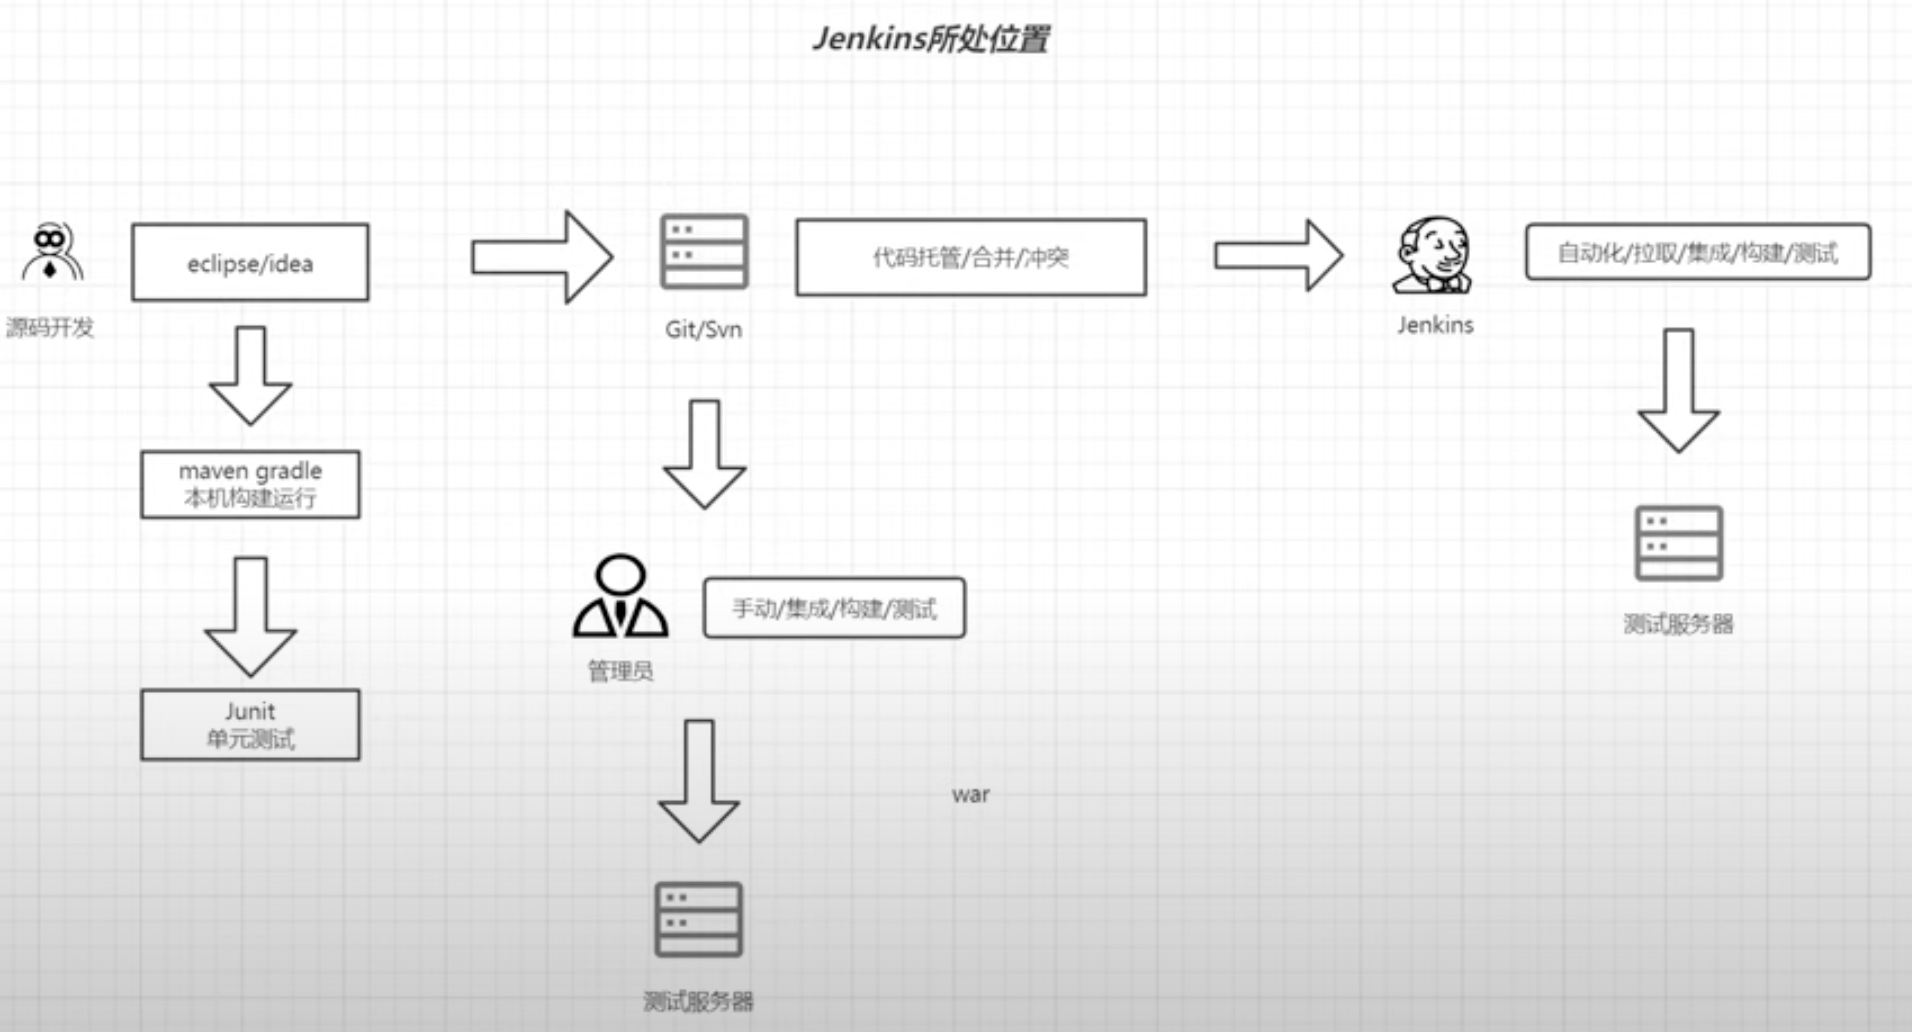
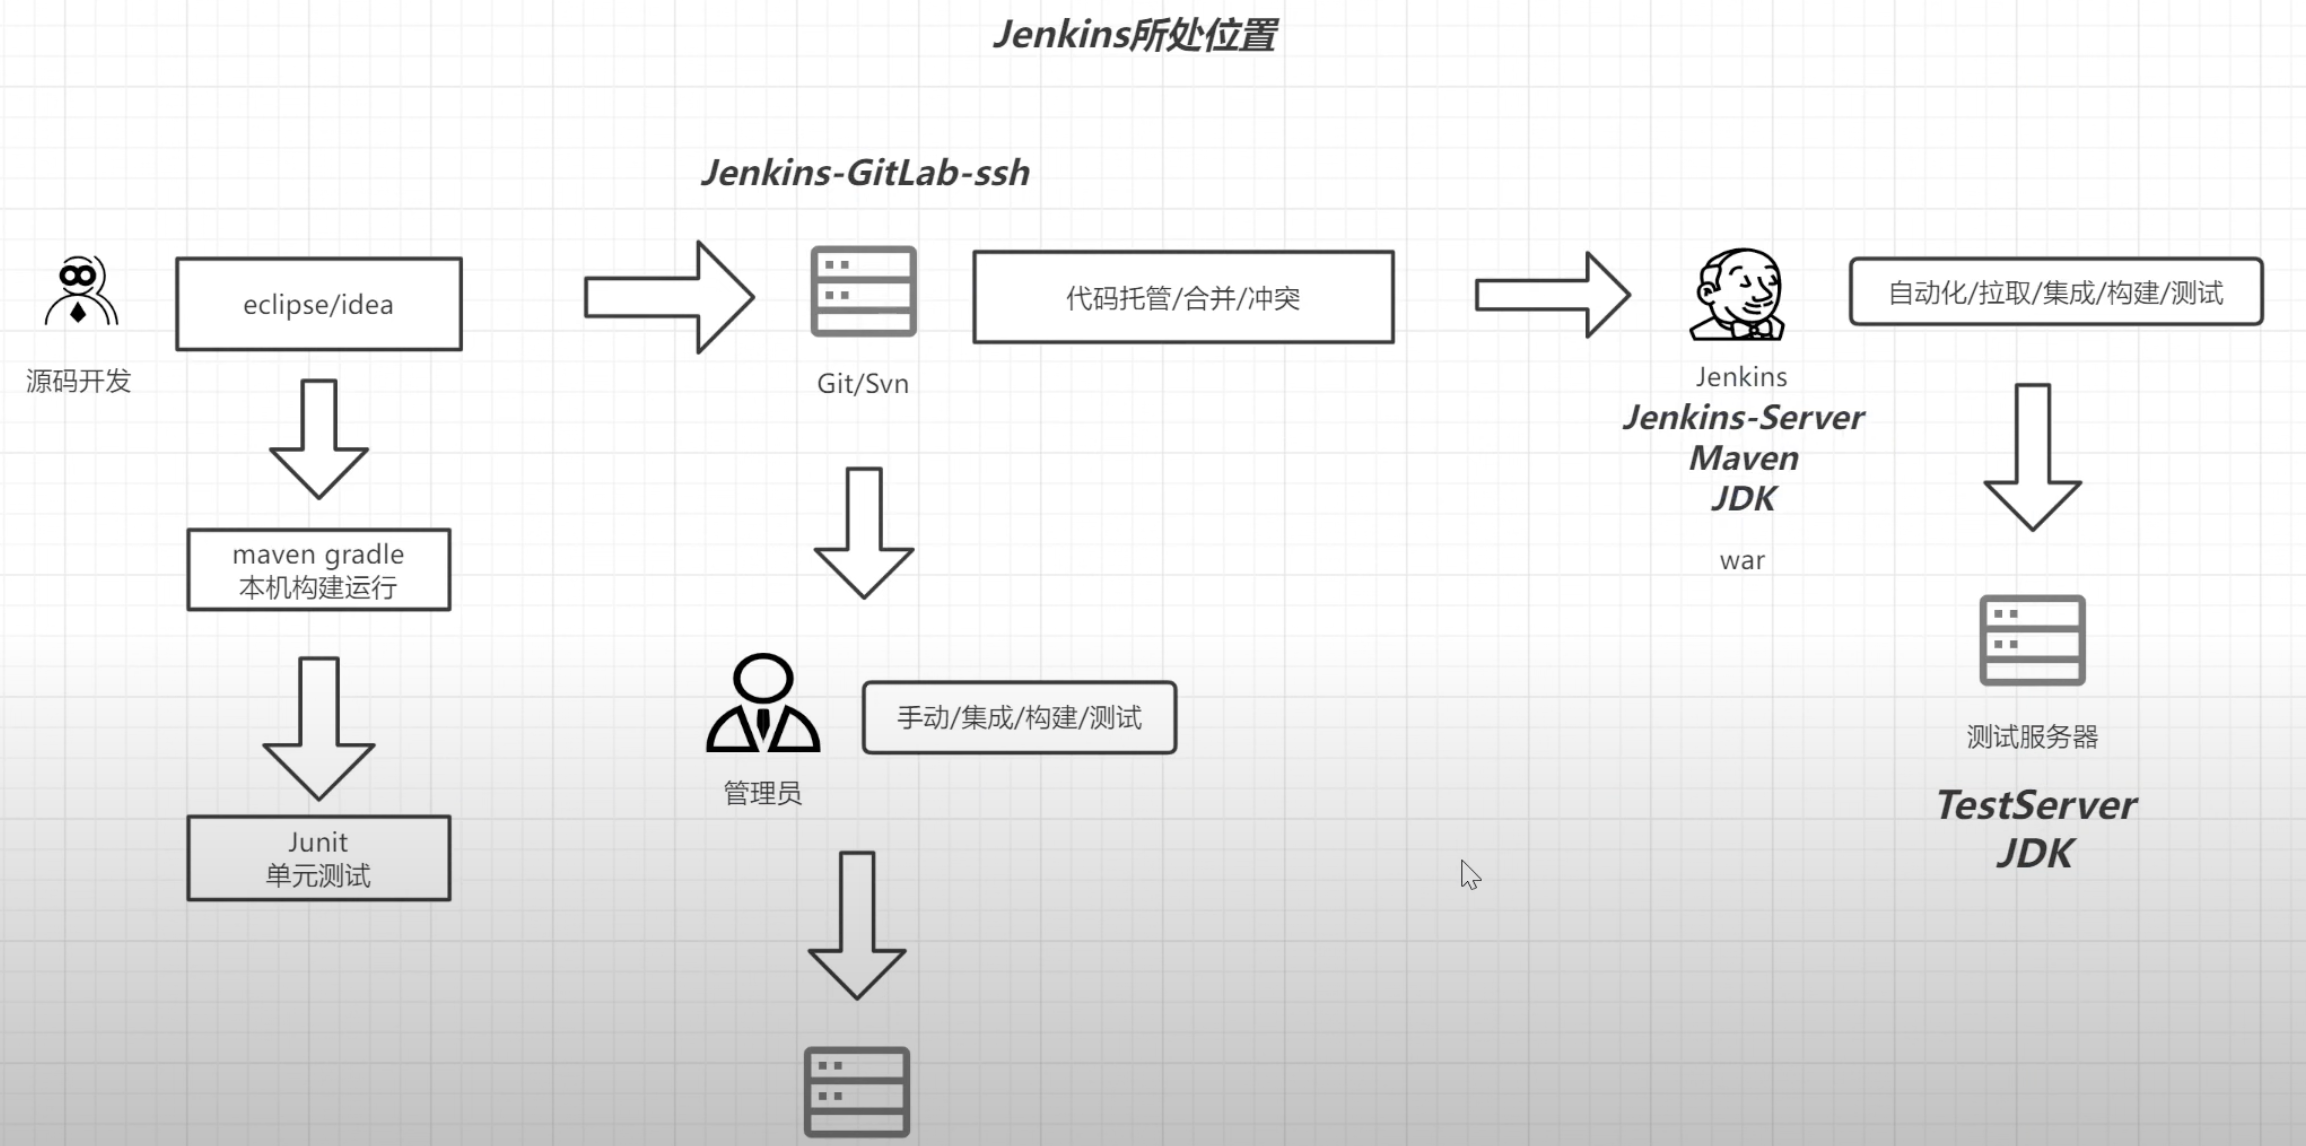
update

diff --git a/jenkins/note.md b/jenkins/note.md
@@ -1,0 +1,10 @@
+Jenkins+Maven+Git持续集成
+
+三台服务器：
+- Jenkins-GitLab-ssh
+- Jenkins-Server
+- TestServer : 也装了jdk
+
+![image]( https://github.com/bsun33/note/blob/main/images/jenkins_1.png)
+
+
